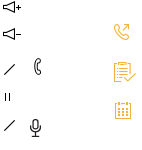
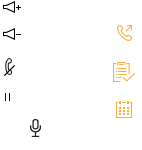
ui cleanup

diff --git a/WebContent/css/style.css b/WebContent/css/style.css
@@ -156,7 +156,7 @@ li{
     text-transform: uppercase;
     color: #c1c1c1
 }
-.compact .dials .pad-action:active {
+.compact .dials :active {
     background: #0c3
 }
 .call-info
@@ -386,46 +386,79 @@ ul.listOptions {
     font-family:"proxima_novasemibold";
     position: relative;
 }
-.volumeUp, .volumedown, .hold, .unhold, .mute, .unmute, .record, .offrecord
+.follFigIco, .approveIco, .callingIco
 {
- background-image: url(../img/ring-icon.png);
- width:24px;
- height:24px;
- margin-left: 16px;
+	background-image: url(../img/ring-icon.png);
+	height:25px;
+	position: absolute;
+    margin-left: -29px;
+    width: 24px;
+    margin-top: -4px;
+}
+.follFigIco
+{
+	background-position: -112px -97px;
+}
+.approveIco
+{
+	    background-position: -109px -61px;
+}
+.callingIco
+{
+	background-position: -113px -20px;
+}
+.w-vol-up, .w-vol-down, .b-vol-up, .b-vol-down, .mute, .unmute, .hold, .unhold, .record, .offrecord
+{
+	background-image: url(../img/ring-icon.png);
+	width:24px;
+	height:24px;
+	float:left;
+	    margin-left: 17px;
     margin-top: 17px;
-    float:left;
+	/*background-color:red;*/
 }
-.volumeUp
+.w-vol-up
 {
-	background-position:-3px 3px;
+	background-position:-40px 4px;
 }
-.volumedown
+.w-vol-down
 {
-	background-position:-3px 3px;
+	background-position:-40px -23px;
 }
-.hold
+.b-vol-up
 {
-	background-position:-3px 3px;
+	background-position:0px 4px;
+	
 }
-.unhold
+.b-vol-down
 {
-	background-position:-3px 3px;
+	background-position:1px -22px;
+	
 }
 .mute
 {
-	background-position:-3px 3px;
+	background-position:3px -54px;
 }
 .unmute
 {
-	background-position:-3px 3px;
+	background-position:-27px -54px;
+}
+.hold
+{
+	background-position:5px -86px;
+}
+.unhold
+{
+	background-position:-25px -86px;
 }
 .record
 {
-	background-position:-3px 3px;
+	background-position:-23px -116px;
+	
 }
 .offrecord
 {
-	background-position:-3px 3px;
+	background-position:3px -116px;
 }
 
 /***********************Callinprogress*************************/

diff --git a/WebContent/html/Main.html b/WebContent/html/Main.html
@@ -95,14 +95,14 @@
 				<p class="callerOptTxt" id="muteUnmuteTxt">Mute</p>              
             </td>
             <td class="whiteTxt pointer">
-	             <div class="callerOpt"> <i class="ringIcon volumeup" onclick="Handler.VolUp()"></i></div>
+	             <div class="callerOpt"> <i class="ringIcon b-vol-up" onclick="Handler.VolUp()"></i></div>
 					<p class="callerOptTxt">Plus</p>              
             </td>
 
 
 
             <td class="whiteTxt pointer">
-	              <div class="callerOpt"><i class="ringIcon volumedown" onclick="Handler.VolDown()"></i></div>
+	              <div class="callerOpt"><i class="ringIcon b-vol-down" onclick="Handler.VolDown()"></i></div>
 					<p class="callerOptTxt">Minus</p>                         
             </td>
 
